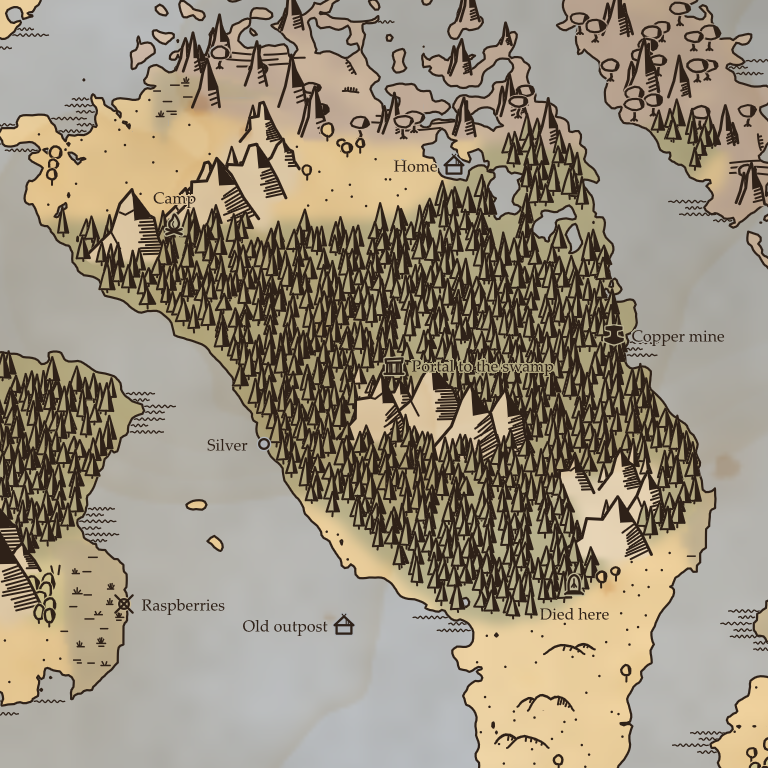
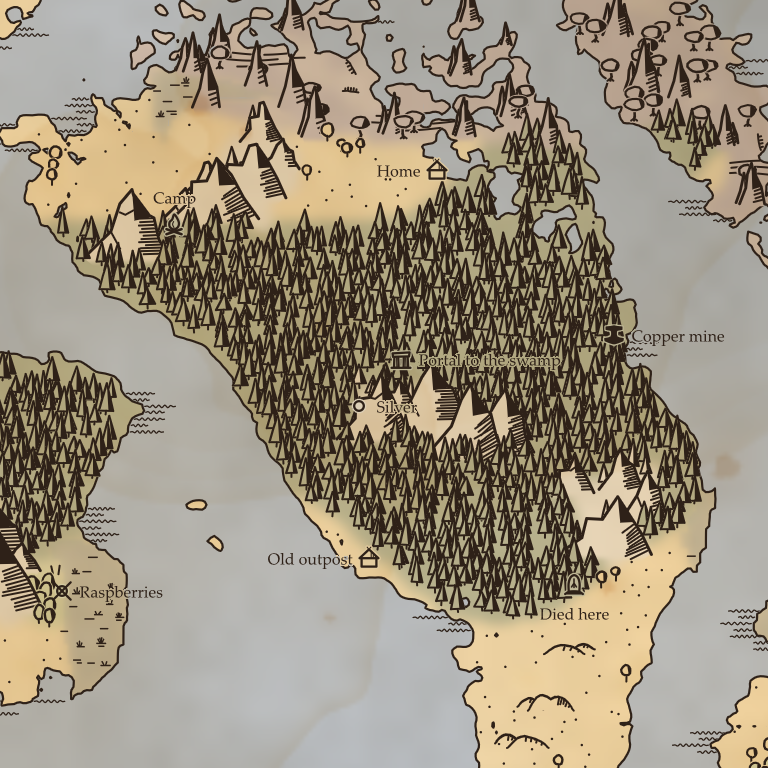
Stand the preview's test pins on fitting land
The test pins sat at fixed offsets from the view's centre, so in the region view
half of them stood in open sea and silver lay in the Meadows. Each now names the
biome it belongs to and moves to the nearest land of it in the view, clear of the
shore and of the other pins, so the samples show pins as a player sets them.

diff --git a/tools/preview/Program.cs b/tools/preview/Program.cs
@@ -508,18 +508,67 @@ internal static class Program
         return 0;
     }
 
-    // Test pins round the view's centre: offset in canvas units (y up), glyph, name, checked.
+    // Test pins round the view's centre: offset in canvas units (y up), glyph, name, checked, and
+    // the biome the name belongs to (null for any land). Each is moved to the nearest land of its
+    // biome in the view (SnapPins), as a player would set it, so the samples never show a pin in
+    // open sea or silver outside the Mountains whatever the view.
     static readonly object[][] s_testPins =
     {
-        new object[] { -210, 150, "Fire", "Camp", false },
-        new object[] { 70, 210, "House", "Home", false },
-        new object[] { 230, 40, "Hammer", "Copper mine", false },
-        new object[] { -120, -60, "Point", "Silver", false },
-        new object[] { 10, 10, "Portal", "Portal to the swamp", false },
-        new object[] { 190, -210, "Death", "Died here", false },
-        new object[] { -260, -220, "Point", "Raspberries", true },
-        new object[] { -40, -250, "House", "Old outpost", false },
+        new object[] { -210, 150, "Fire", "Camp", false, null },
+        new object[] { 70, 210, "House", "Home", false, "Meadows" },
+        new object[] { 230, 40, "Hammer", "Copper mine", false, "BlackForest" },
+        new object[] { -120, -60, "Point", "Silver", false, "Mountain" },
+        new object[] { 10, 10, "Portal", "Portal to the swamp", false, null },
+        new object[] { 190, -210, "Death", "Died here", false, null },
+        new object[] { -260, -220, "Point", "Raspberries", true, "Meadows" },
+        new object[] { -40, -250, "House", "Old outpost", false, null },
     };
+
+    // Where each test pin stands in the view (output pixels, y up): the nearest point to its
+    // offset that is land of its biome, ShoreClear pixels off water each way and PinSpacing from
+    // the pins placed before; failing that any such land; failing that its offset.
+    static Vector2[] SnapPins(int n, int left, int bottom, int scale, object source)
+    {
+        const int ShoreClear = 10, PinSpacing = 56, Margin = 40, Reach = 360, Step = 3;
+        MethodInfo landAt = source.GetType().GetMethod("LandAt", All), waterAt = source.GetType().GetMethod("IsWaterAt", All);
+        float mpp = 2f * 10800f / 4096f;
+        bool Water(float x, float y) => (bool)waterAt.Invoke(source, new object[] { (left + x / scale) * mpp - 10800f, 10800f - (bottom - y / scale) * mpp });
+        string Land(float x, float y) => landAt.Invoke(source, new object[] { (left + x / scale) * mpp - 10800f, 10800f - (bottom - y / scale) * mpp }).ToString();
+        var spots = new Vector2[s_testPins.Length];
+        for (int p = 0; p < s_testPins.Length; p++)
+        {
+            object[] pin = s_testPins[p];
+            var nominal = new Vector2(n / 2 + (int)pin[0], n / 2 + (int)pin[1]);
+            bool Fits(Vector2 at, string want)
+            {
+                if (at.x < Margin || at.y < Margin || at.x > n - Margin || at.y > n - Margin) return false;
+                if (Water(at.x, at.y) || Water(at.x - ShoreClear, at.y) || Water(at.x + ShoreClear, at.y) || Water(at.x, at.y - ShoreClear) || Water(at.x, at.y + ShoreClear)) return false;
+                if (want != null && Land(at.x, at.y) != want) return false;
+                for (int q = 0; q < p; q++) if (Vector2.Distance(spots[q], at) < PinSpacing) return false;
+                return true;
+            }
+            spots[p] = nominal;
+            bool found = false;
+            foreach (string want in new[] { (string)pin[5], null })
+            {
+                for (int r = 0; r <= Reach && !found; r += Step)
+                {
+                    int around = Math.Max(1, (int)(2f * Mathf.PI * r / Step));
+                    for (int k = 0; k < around; k++)
+                    {
+                        float a = 2f * Mathf.PI * k / around;
+                        var at = nominal + new Vector2(Mathf.Cos(a), Mathf.Sin(a)) * r;
+                        if (!Fits(at, want)) continue;
+                        spots[p] = new Vector2(Mathf.Round(at.x), Mathf.Round(at.y));
+                        found = true;
+                        break;
+                    }
+                }
+                if (found || pin[5] == null) break;
+            }
+        }
+        return spots;
+    }
 
     // Lays the test pins over rgba (n x n, rows from the south) as the atlas window does. left is
     // the sheet x of the output's west edge, bottom the sheet y (running south) of its south edge.
@@ -577,9 +626,11 @@ internal static class Program
         MethodInfo liftOf = T("Atlas.PinGlyphs").GetMethod("Lift", All);
         int Lift(string name) => liftOf == null ? 0 : (int)Math.Round((float)liftOf.Invoke(null, new object[] { Enum.Parse(kind, name) }) * size);
         var placed = new System.Collections.Generic.List<Rect>();
-        foreach (object[] pin in s_testPins)
+        Vector2[] spots = SnapPins(n, left, bottom, scale, source);
+        for (int p = 0; p < s_testPins.Length; p++)
         {
-            int cx = n / 2 + (int)pin[0], cy = n / 2 + (int)pin[1] + Lift((string)pin[2]);
+            object[] pin = s_testPins[p];
+            int cx = (int)spots[p].x, cy = (int)spots[p].y + Lift((string)pin[2]);
             placed.Add(new Rect(cx - size * 0.5f, cy - size * 0.5f, size, size));
             Glyph((string)pin[2], cx, cy, true);
             if ((bool)pin[4]) Glyph("Checked", cx, cy, false);
@@ -602,9 +653,10 @@ internal static class Program
                 StringFormat format = StringFormat.GenericTypographic;
                 Func<Rect, float> inkUnder = r => (float)mean.Invoke(density, new object[] { left + r.xMin / scale, bottom - r.yMax / scale, left + r.xMax / scale, bottom - r.yMin / scale });
                 float icon = size * 0.5f + 4f;
-                foreach (object[] pin in s_testPins)
+                for (int p = 0; p < s_testPins.Length; p++)
                 {
-                    var at = new Vector2(n / 2 + (int)pin[0], n / 2 + (int)pin[1] + Lift((string)pin[2]));
+                    object[] pin = s_testPins[p];
+                    var at = new Vector2(spots[p].x, spots[p].y + Lift((string)pin[2]));
                     SizeF measured = g.MeasureString((string)pin[3], font, 1000, format);
                     var extent = new Vector2(measured.Width + 2f, font.Height);
                     int place = (int)choose.Invoke(null, new object[] { at, extent, -1, icon, 2f, placed, inkUnder });
